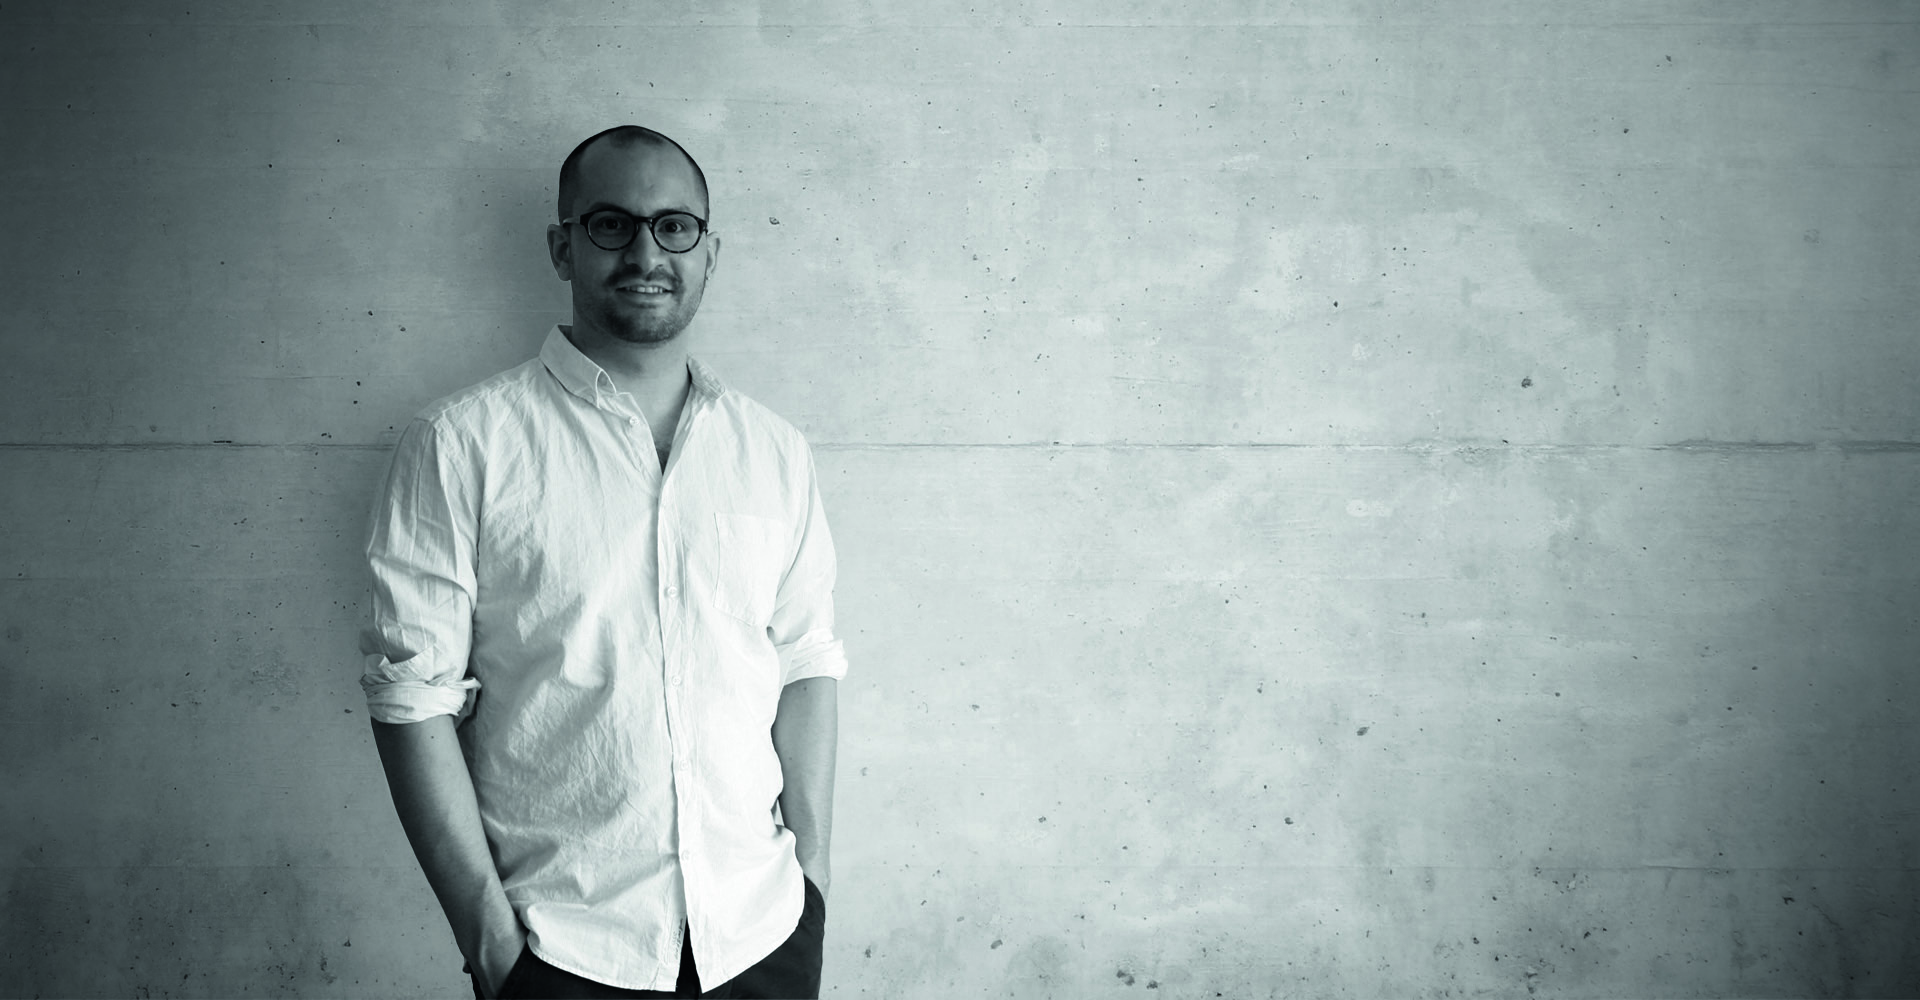
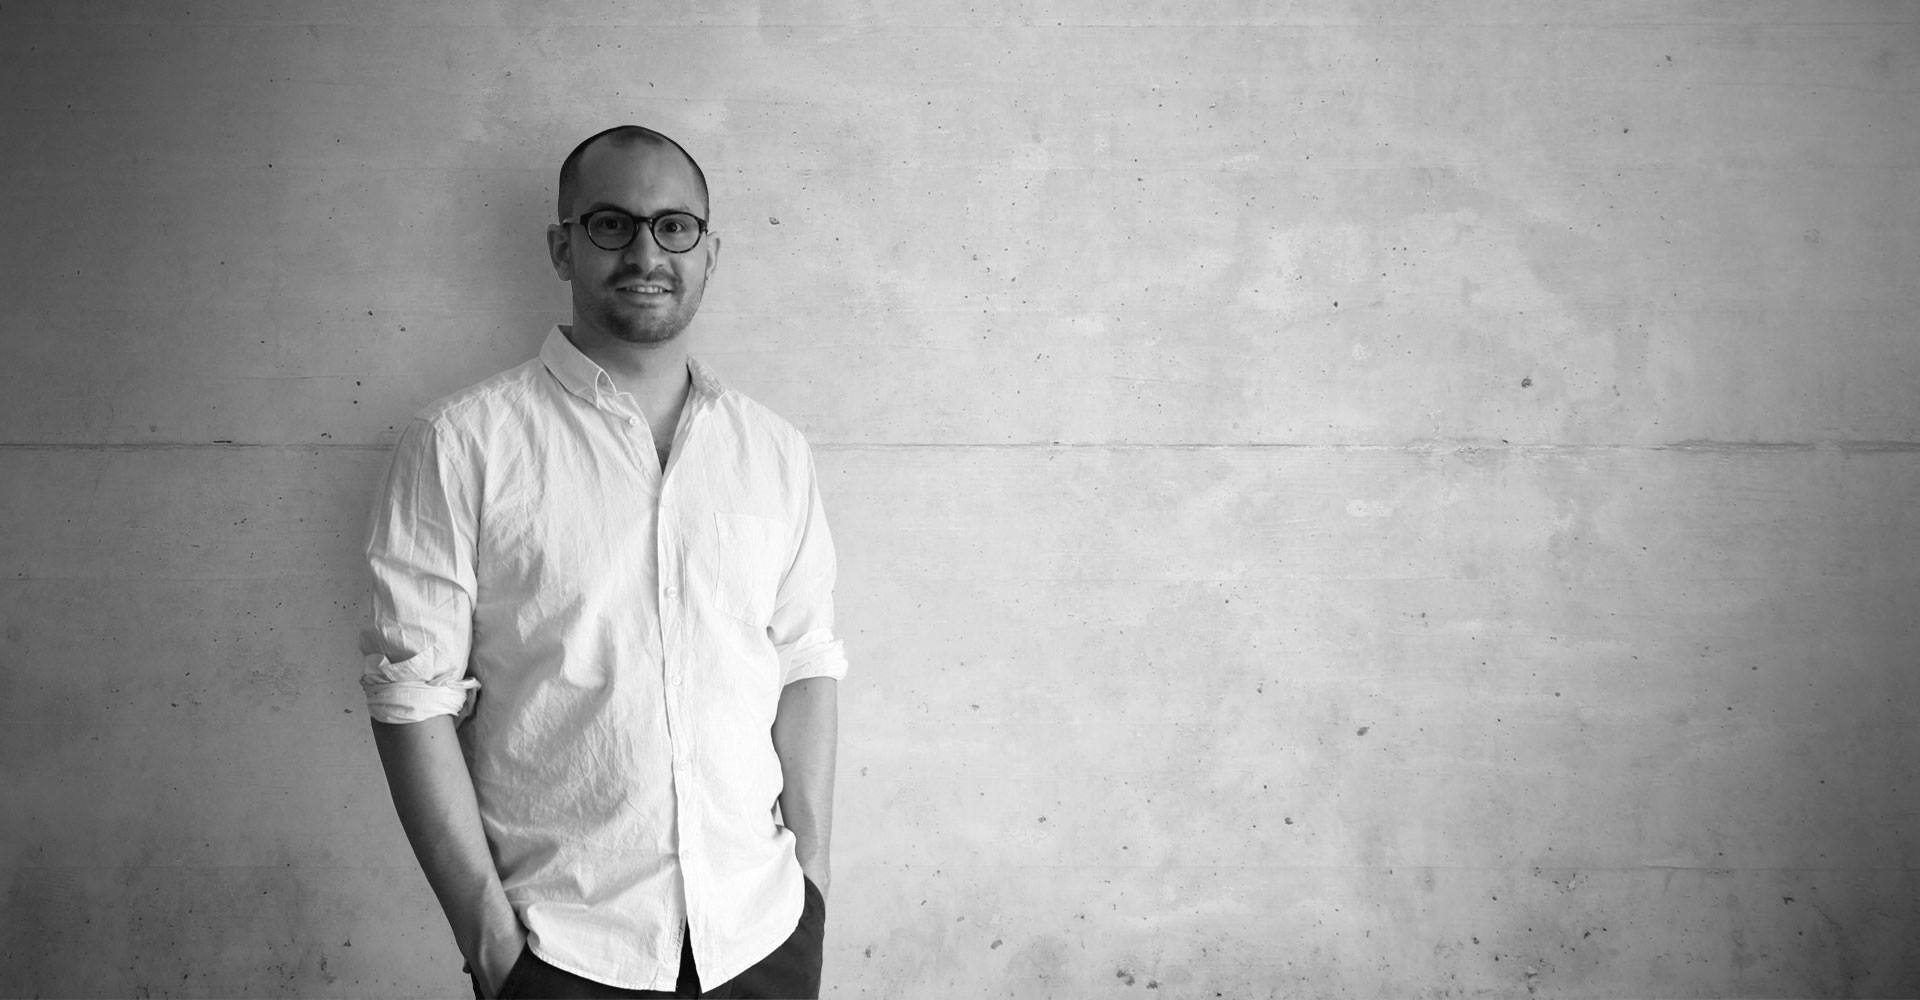
greyscale background image

diff --git a/index.html b/index.html
@@ -10,7 +10,7 @@
     <link rel="stylesheet" type="text/css" href="bower_components/fullpage.js/jquery.fullPage.css">
     <link rel="stylesheet" type="text/css" href="css/main.css">
 
-    <title>{{title}}</title>
+    <title>{{app.title}}</title>
 
 </head>
 <body>
@@ -41,6 +41,7 @@
     <div class="hero-image"></div>
 
     <div id="fullpage">
+        <!-- HOME SECTION -->
         <div class="section" data-anchor="home">
             <div class="container">
                 <div class="row">
@@ -76,13 +77,13 @@
                 </div>
             </div>
         </div>
+        <!-- SKILLS SECTION -->
         <div class="section section-white" data-anchor="skills">
             <div class="container">
-                <h1>savoir-faire</h1>
+                <h2 class="text-center">savoir-faire</h2>
                 <div class="row">
                     <div class="col-md-4" ng-repeat="skill in skills">
                         <div class="skill-item">
-
                             <div class="row">
                                 <div class="col-md-2 title"><span class="glyphicon glyphicon-{{skill.glyphicon}}" aria-hidden="true"></span></div>
                                 <div class="col-md-10 title"><span ng-bind-html="skill.title"></span></div>
@@ -97,19 +98,28 @@
                 </div>
             </div>
         </div>
+        <!-- PORTFOLIO SECTION -->
         <div class="section" data-anchor="portfolio">
-            <div class="portfolio">
-                <h1>portfolio</h1>
+            <div class="container">
+                <h2 class="text-center">portfolio</h2>
             </div>
         </div>
+        <!-- CLIENTS SECTION -->
         <div class="section" data-anchor="clients">
-            <div class="portfolio">
-                <h1>clients</h1>
+            <div class="container">
+                <h2 class="text-center">clients</h2>
             </div>
         </div>
-        <div class="section" data-anchor="contact">
-            <div class="portfolio">
-                <h1>contact</h1>
+        <!-- CONTACT SECTION -->
+        <div class="section contact" data-anchor="contact">
+            <div class="container">
+                <h2 class="text-center">contact</h2>
+                <a class="btn btn-default btn-lg" href="mailto:{{app.contact.mail}}" role="button">
+                    <span class="glyphicon glyphicon-envelope" aria-hidden="true"></span>&nbsp;{{app.contact.mail}}
+                </a>
+                <a class="btn btn-default btn-lg" href="tel:{{app.contact.phoneLink}}" role="button">
+                    <span class="glyphicon glyphicon-phone" aria-hidden="true"></span>&nbsp;{{app.contact.phone}}
+                </a>
             </div>
         </div>
     </div>

diff --git a/css/main.css b/css/main.css
@@ -43,13 +43,8 @@ body {
 }
 
 /*
-    CONTENT
+    HOME
 */
-
-.section h1 {
-    text-align: center;
-    font-size: 25pt;
-}
 
 .hero-image {
     background: url("../images/background.jpg") no-repeat;
@@ -57,7 +52,14 @@ body {
     width: 100%;
     height: 100%;
     position: fixed;
+
+    -webkit-filter: grayscale(100%);
+            filter: grayscale(100%);
 }
+
+/*
+    SKILLS
+*/
 
 .section-white {
     background: rgba(255, 255, 255, 0.25);
@@ -78,4 +80,16 @@ body {
 
 .skill-item .row {
     margin-top: 5px;
+}
+
+/*
+    CONTACT
+*/
+
+.contact .container {
+    text-align: center;
+}
+
+.contact .btn {
+    width: 300px;
 }

diff --git a/js/main.js b/js/main.js
@@ -20,11 +20,11 @@ var app = angular.module('tounApp', ['ngSanitize']);
 
 app.controller('MainCtrl', ['$scope', '$http', function($scope, $http) {
 
-    $scope.title = '';
+    $scope.app = {};
     $scope.skills = {};
 
     $http.get('data/app.json').success(function(app) {
-        $scope.title = app.title;
+        $scope.app = app;
     });
 
     $http.get('data/skills.json').success(function(skills) {
